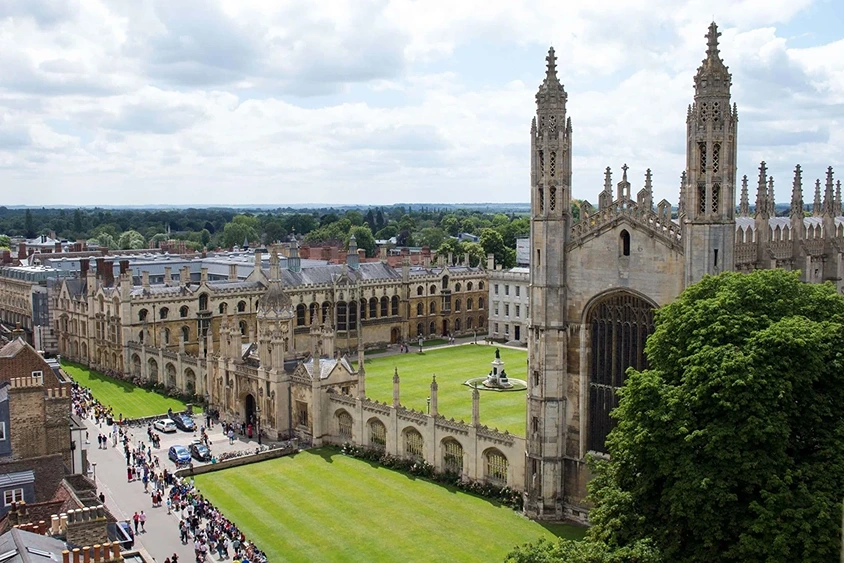
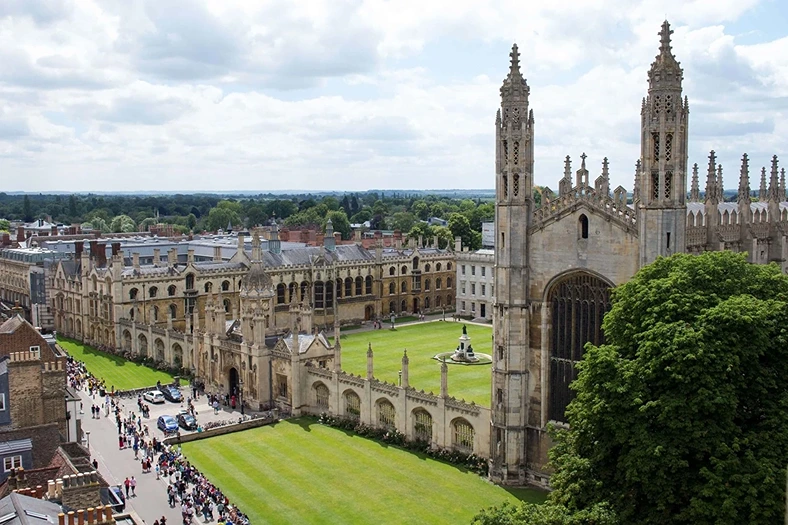
Replace cambridge university image with resized version and update .image-sizing to 100% width

diff --git a/assets/css/style.css b/assets/css/style.css
@@ -130,7 +130,7 @@ h3 {
 }
 
 .image-sizing {
-	max-width: 100%;
+	width: 100%;
 }
 
 /*review section homepage*/
